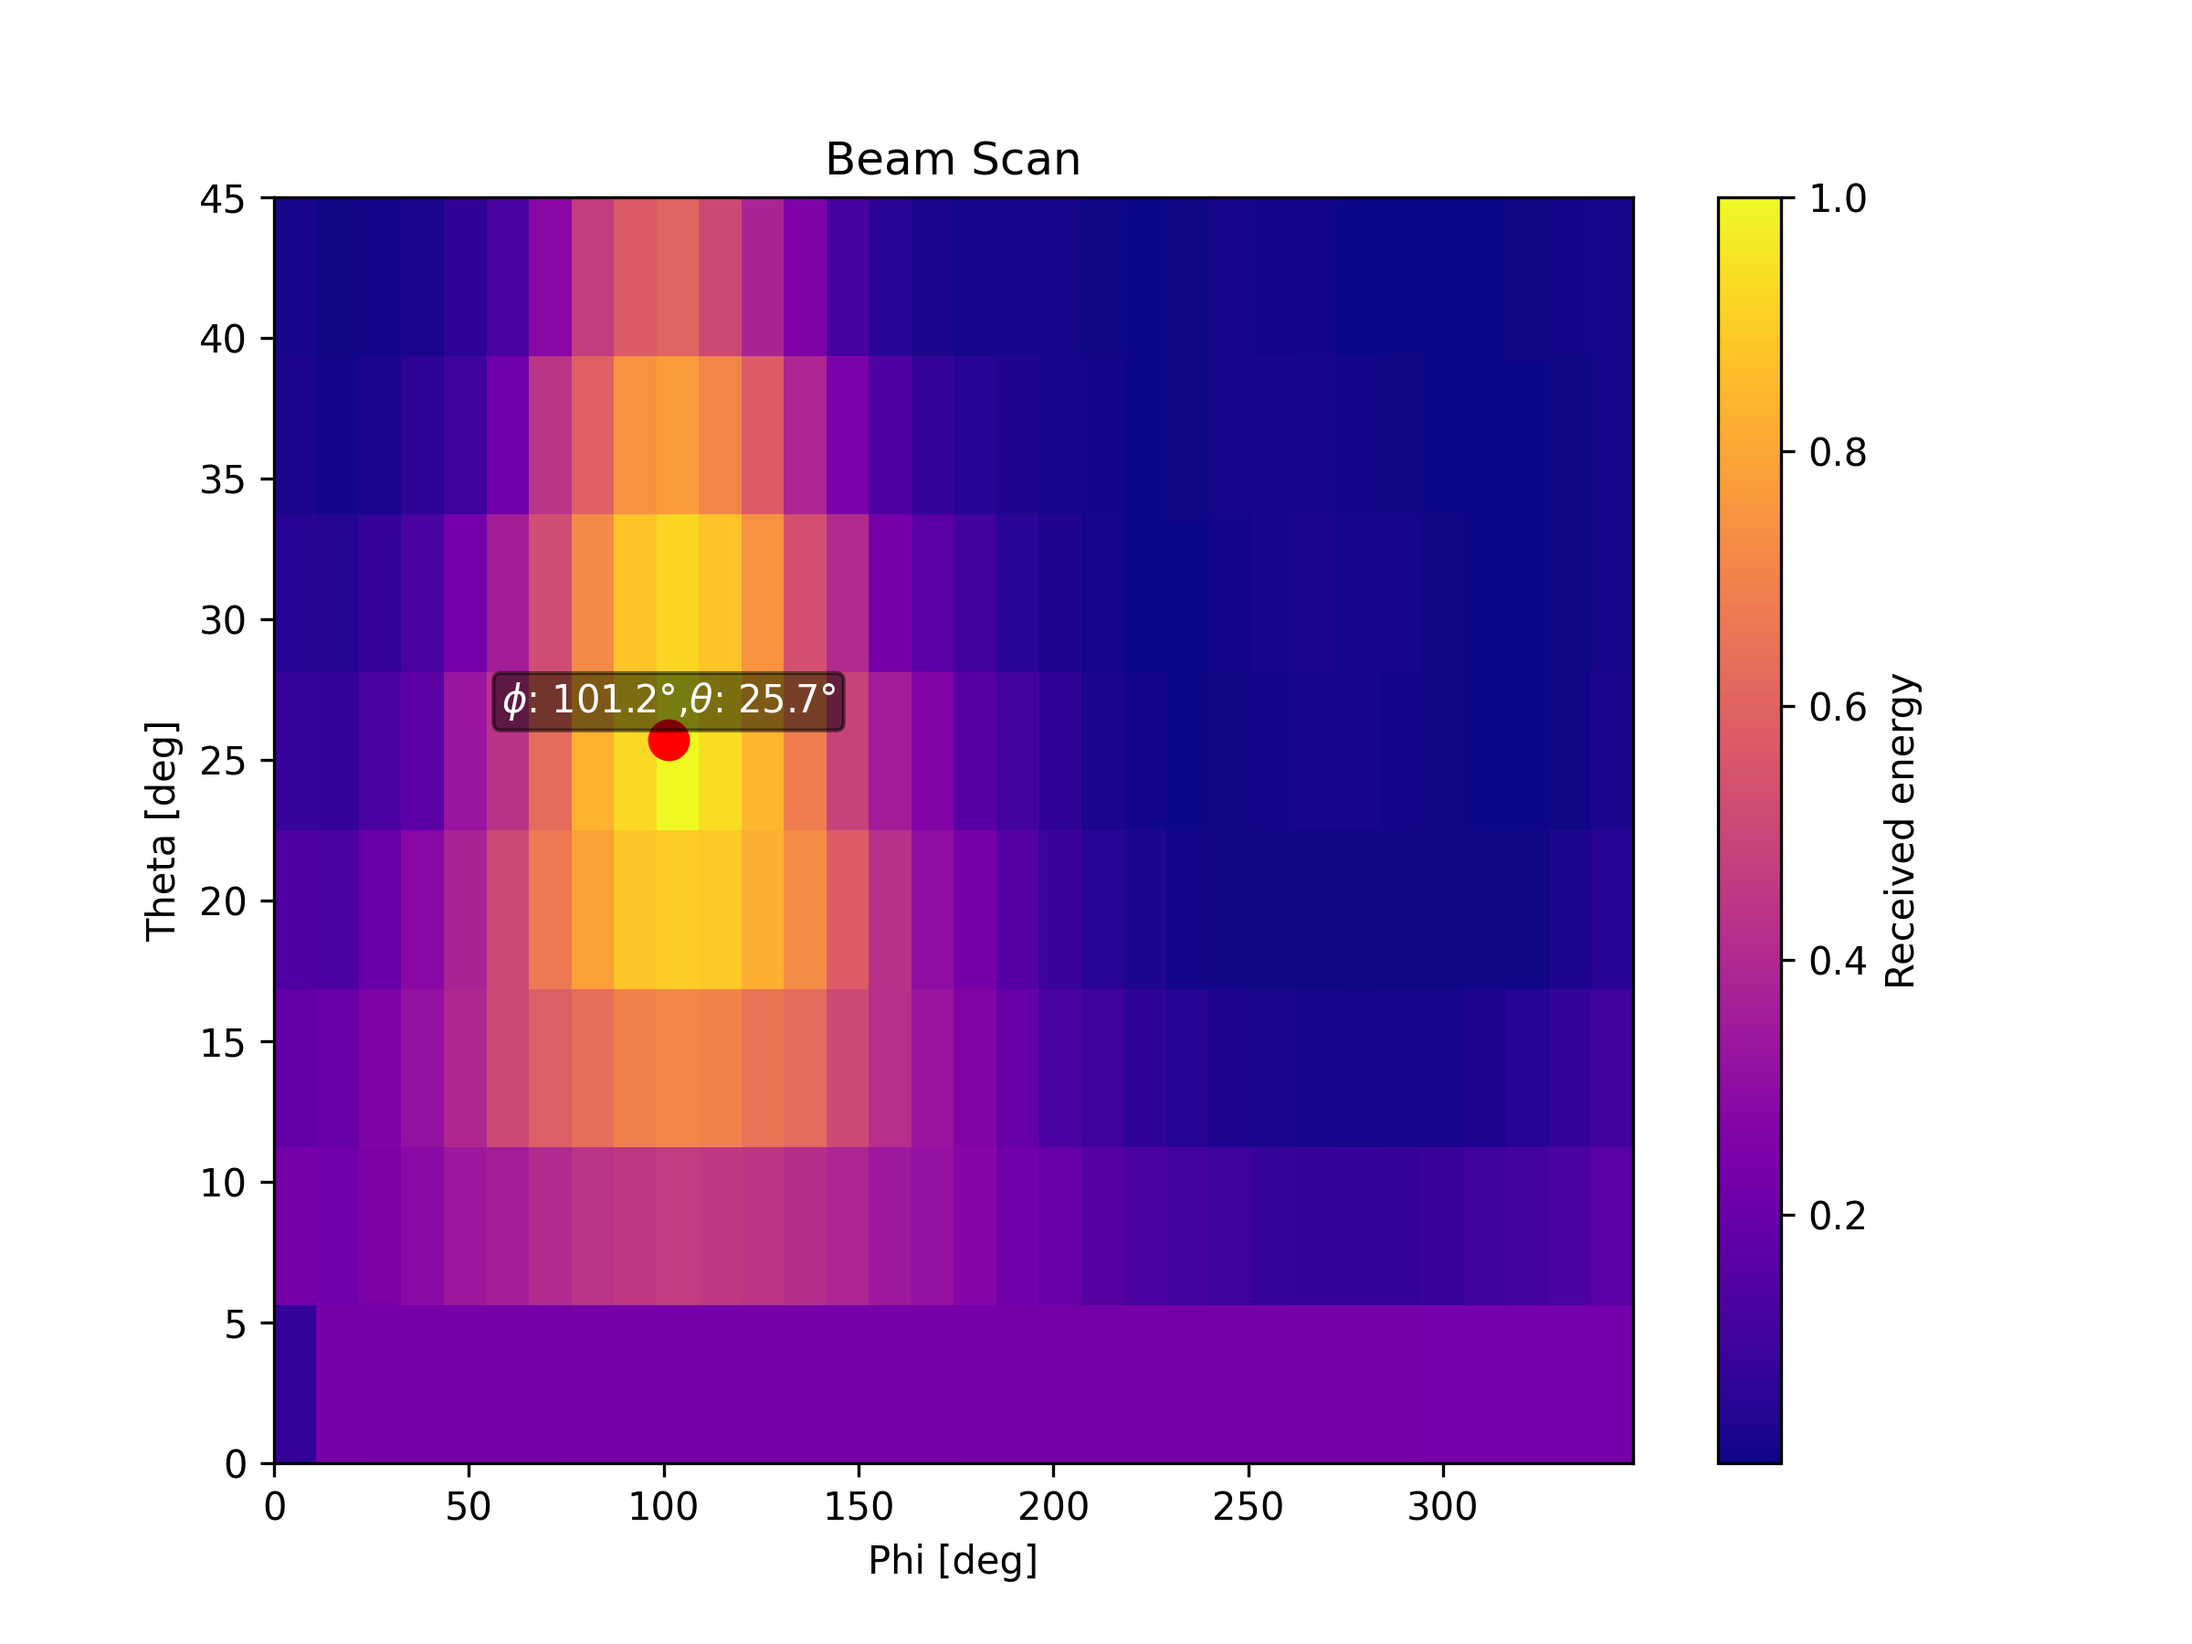
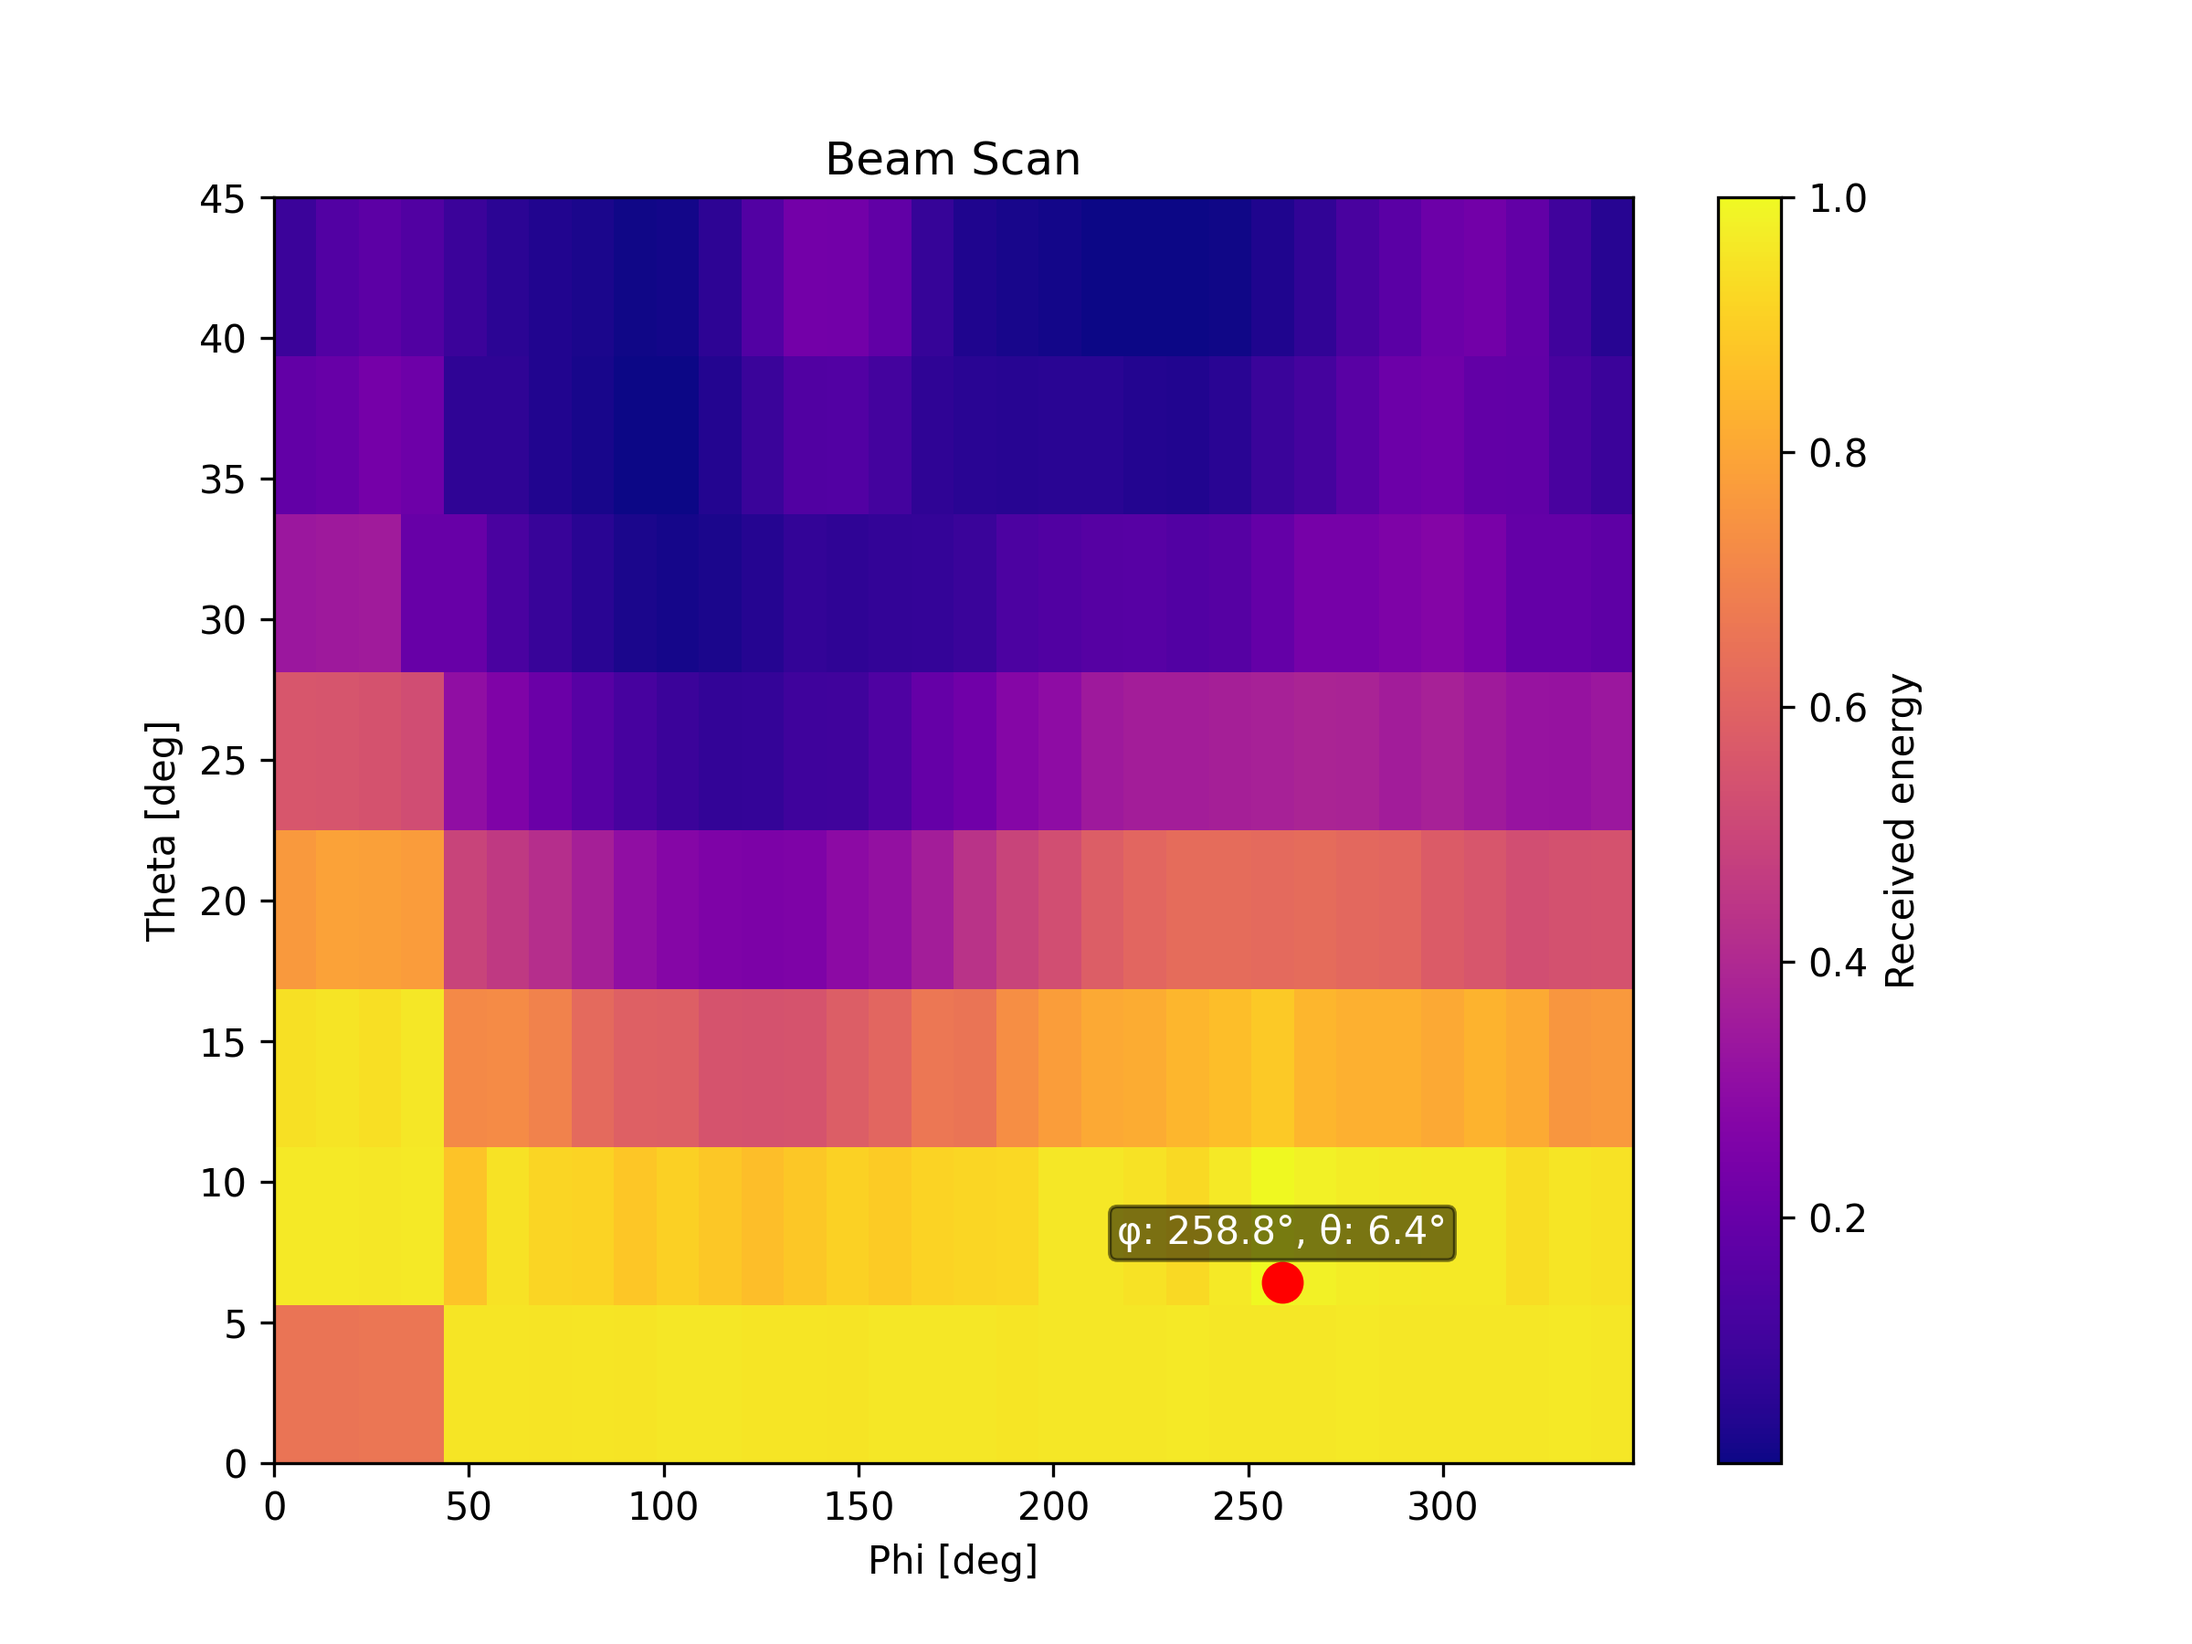
modified recieve code

diff --git a/GUI/main.py b/GUI/main.py
@@ -34,7 +34,7 @@ import asyncio
 from AF_Calc import runAF_Calc
 from READ_S2P import get_phase_at_freq
 from create_default_rx_grid import DEFAULT_RX_GRID
-from PLUTO import get_energy, tx, stop_tx, moving_average
+from PLUTO import get_energy, get_energy_fast,discard_buffer, tx, stop_tx, moving_average
 import plotly.graph_objects as go
 #global serial handler
 ser = None
@@ -1426,39 +1426,41 @@ def beam_page():
             .style('order:2;')
             
 
-
         def Scan_Beam():
             """Launches beam scan in background with progress bar"""
+
             with ui.dialog() as dialog, ui.card():
-                label = ui.label('Starting beam scan...')
-                progress_bar = ui.linear_progress(show_value = False)\
-                    .props('indeterminate')
+                label = ui.label('Scanning...')
+                progress_bar = ui.linear_progress().props('indeterminate')
                 dialog.open()
 
-            
             async def scan_task():
-                # Launch the scan as an async background task
                 tx()
+
                 n_steps = len(DEFAULT_RX_GRID)
                 energies = np.zeros(n_steps)
-
+                for _ in range(14):
+                    discard_buffer()
                 for i, phases in enumerate(DEFAULT_RX_GRID):
                     send_phases(phases)
-                    energies[i] = get_energy() #time to sample ~410us
-                    label.set_text(f"Scanning {i+1}/{n_steps}")
+                    energies[i] = get_energy_fast() 
+
+                    # Update UI less often
+                    if i % 64 == 0:
+                        label.set_text(f"Scanning {i+1}/{n_steps}")
+                        await asyncio.sleep(0)  # yield to UI
 
                 stop_tx()
 
-                # Reshape and plot
+                # --- Process results ---
                 energies_2D = energies.reshape(len(THETA_RANGE), len(PHI_RANGE))
-                energies_2D /= np.max(energies_2D) #normalize
-                # Find peak location
+                energies_2D /= np.max(energies_2D)
+
                 peak_idx = np.unravel_index(np.argmax(energies_2D), energies_2D.shape)
                 theta_peak = THETA_RANGE[peak_idx[0]]
                 phi_peak = PHI_RANGE[peak_idx[1]]
 
-                r=3#circle radius
-
+                # --- Plot ---
                 fig, ax = plt.subplots(figsize=(8, 6))
 
                 im = ax.imshow(
@@ -1469,39 +1471,113 @@ def beam_page():
                     cmap='plasma'
                 )
 
-                #mark the point                
-                ax.plot(phi_peak, theta_peak, 'ro', markersize=10)  # Mark peak
-                # Annotate with coordinates
-                ax.annotate(
-                    fr"$\phi$: {phi_peak:.1f}°,$\theta$: {theta_peak:.1f}°",
-                    xy=(phi_peak, theta_peak),                 # point to annotate
-                    xytext=(0, 10),                           # offset in pixels
-                    ha='center',
-                    va='center',
-                    textcoords='offset points',
-                    color='white',
-                    fontsize=10,
-                    bbox=dict(boxstyle="round,pad=0.2", fc="black", alpha=0.5),
-                    zorder=100
-                )
-                plt.colorbar(im, ax=ax, label='Received energy')
+                ax.plot(phi_peak, theta_peak, 'ro', markersize=10)
 
+                ax.annotate(
+                    f"φ: {phi_peak:.1f}°, θ: {theta_peak:.1f}°",
+                    xy=(phi_peak, theta_peak),
+                    xytext=(0, 10),
+                    textcoords='offset points',
+                    ha='center',
+                    color='white',
+                    bbox=dict(boxstyle="round,pad=0.2", fc="black", alpha=0.5),
+                )
+
+                plt.colorbar(im, ax=ax, label='Received energy')
                 ax.set_xlabel('Phi [deg]')
                 ax.set_ylabel('Theta [deg]')
                 ax.set_title('Beam Scan')
+
                 plt.savefig('media/rx_heat.png', dpi=300)
                 plt.close()
-                # Update UI with plot
+
+                # --- Update UI with result ---
                 image_container.clear()
                 with image_container:
-                    ui.image('media/rx_heat.png').style('width:65%;').force_reload()
+                    ui.image('media/rx_heat.png').style('width:65%').force_reload()
 
-                # Hide progress bar after completion
                 dialog.close()
 
-            asyncio.create_task(scan_task()) 
-        ui.button('Start', on_click=Scan_Beam)
+            asyncio.create_task(scan_task())
 
+        ui.button('Start', on_click=Scan_Beam)
+        # def Scan_Beam():
+        #     """Launches beam scan in background with progress bar"""
+        #     with ui.dialog() as dialog, ui.card():
+        #         label = ui.label('Starting beam scan...')
+        #         progress_bar = ui.linear_progress(show_value = False)\
+        #             .props('indeterminate')
+        #         dialog.open()
+        #
+        #
+        #     async def scan_task():
+        #         # Launch the scan as an async background task
+        #         tx()
+        #         n_steps = len(DEFAULT_RX_GRID)
+        #         energies = np.zeros(n_steps)
+        #
+        #         for i, phases in enumerate(DEFAULT_RX_GRID):
+        #             send_phases(phases)
+        #             #takes about 147us to latch all and settle give it 200us to be safe
+        #             await asyncio.sleep(50e-6)  # allow phase to stabilize / UI refresh
+        #             energies[i] = get_energy() #time to sample ~410us
+        #             label.set_text(f"Scanning {i+1}/{n_steps}")
+        #
+        #         stop_tx()
+        #
+        #         # Reshape and plot
+        #         energies_2D = energies.reshape(len(THETA_RANGE), len(PHI_RANGE))
+        #         energies_2D /= np.max(energies_2D) #normalize
+        #         # Find peak location
+        #         peak_idx = np.unravel_index(np.argmax(energies_2D), energies_2D.shape)
+        #         theta_peak = THETA_RANGE[peak_idx[0]]
+        #         phi_peak = PHI_RANGE[peak_idx[1]]
+        #
+        #         r=3#circle radius
+        #
+        #         fig, ax = plt.subplots(figsize=(8, 6))
+        #
+        #         im = ax.imshow(
+        #             energies_2D,
+        #             extent=[PHI_RANGE[0], PHI_RANGE[-1], THETA_RANGE[0], THETA_RANGE[-1]],
+        #             origin='lower',
+        #             aspect='auto',
+        #             cmap='plasma'
+        #         )
+        #
+        #         #mark the point                
+        #         ax.plot(phi_peak, theta_peak, 'ro', markersize=10)  # Mark peak
+        #         # Annotate with coordinates
+        #         ax.annotate(
+        #             fr"$\phi$: {phi_peak:.1f}°,$\theta$: {theta_peak:.1f}°",
+        #             xy=(phi_peak, theta_peak),                 # point to annotate
+        #             xytext=(0, 10),                           # offset in pixels
+        #             ha='center',
+        #             va='center',
+        #             textcoords='offset points',
+        #             color='white',
+        #             fontsize=10,
+        #             bbox=dict(boxstyle="round,pad=0.2", fc="black", alpha=0.5),
+        #             zorder=100
+        #         )
+        #         plt.colorbar(im, ax=ax, label='Received energy')
+        #
+        #         ax.set_xlabel('Phi [deg]')
+        #         ax.set_ylabel('Theta [deg]')
+        #         ax.set_title('Beam Scan')
+        #         plt.savefig('media/rx_heat.png', dpi=300)
+        #         plt.close()
+        #         # Update UI with plot
+        #         image_container.clear()
+        #         with image_container:
+        #             ui.image('media/rx_heat.png').style('width:65%;').force_reload()
+        #
+        #         # Hide progress bar after completion
+        #         dialog.close()
+        #
+        #     asyncio.create_task(scan_task()) 
+        # ui.button('Start', on_click=Scan_Beam)
+        #
 
     #----Receive Mode page----
 

diff --git a/GUI/PLUTO.py b/GUI/PLUTO.py
@@ -58,7 +58,11 @@ def get_energy() -> float:
         power+= np.mean(np.abs(rx)**2)
     power /= NUM_AVG
     return power
-
+def get_energy_fast() -> float:
+    "for receive mode get the energy without averaging" 
+    rx = sdr.rx()
+    power = np.mean(np.abs(rx)**2)
+    return power
 def moving_average(x, window=8):
     x = np.asarray(x)
     return np.convolve(x, np.ones(window)/window, mode='valid')
